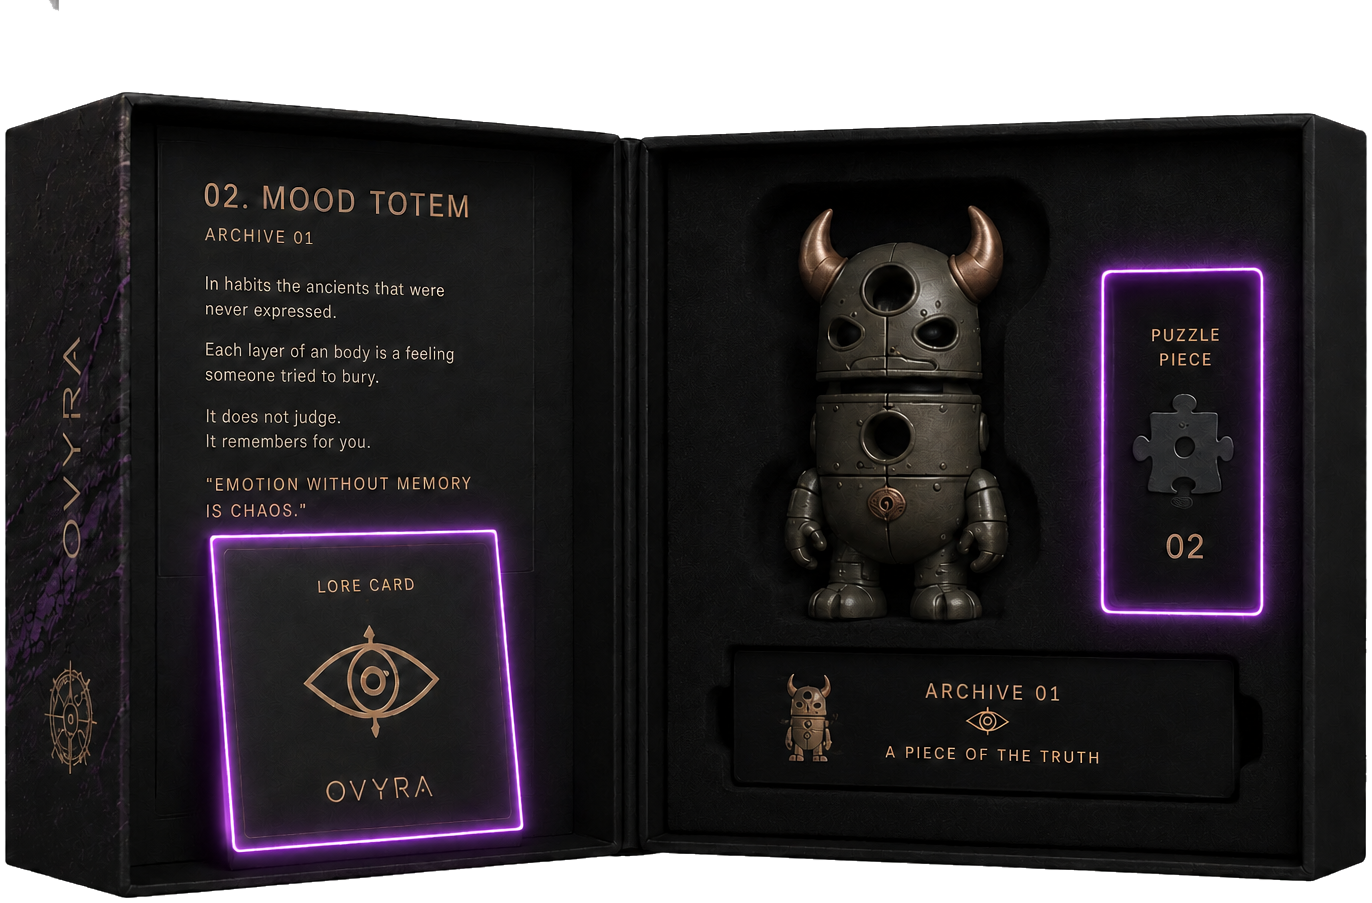
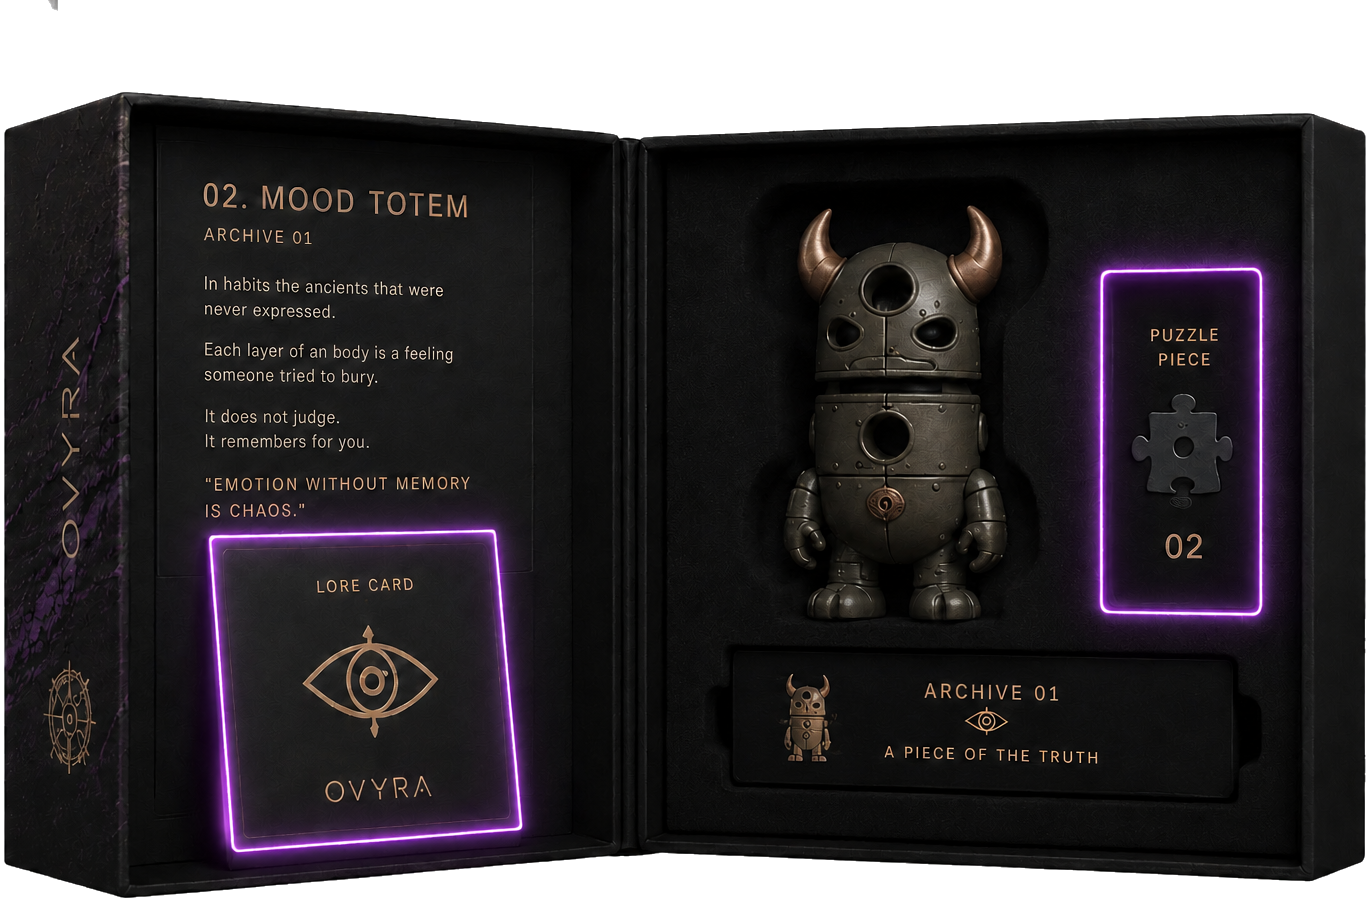
njbigsfdff

diff --git a/scripts/extract_system_assets.py b/scripts/extract_system_assets.py
@@ -16,7 +16,7 @@ OUT.mkdir(parents=True, exist_ok=True)
 REGIONS = {
     "lore-card": (0.18359375, 0.5087890625, 0.3984375, 0.83984375),
     "puzzle-piece": (0.763671875, 0.251953125, 0.880859375, 0.6103515625),
-    "figure-totem": (0.492, 0.288, 0.648, 0.568),
+    "figure-totem": (0.468, 0.285, 0.658, 0.572),
 }
 
 
@@ -89,10 +89,21 @@ def crop_fraction(img: Image.Image, box: tuple[float, float, float, float]) -> I
     return img.crop((int(x0 * w), int(y0 * h), int(x1 * w), int(y1 * h)))
 
 
+def cleanup_alpha(img: Image.Image) -> Image.Image:
+    arr = np.array(img.convert("RGBA"), dtype=np.uint8)
+    alpha = arr[:, :, 3]
+    lum = (arr[:, :, 0].astype(np.int16) + arr[:, :, 1].astype(np.int16) + arr[:, :, 2].astype(np.int16)) / 3
+
+    arr[alpha < 28, 3] = 0
+    arr[(alpha > 0) & (alpha < 48) & (lum >= 175), 3] = 0
+
+    return Image.fromarray(arr, "RGBA")
+
+
 def trim_alpha(img: Image.Image, pad: int = 2) -> Image.Image:
     arr = np.array(img)
     alpha = arr[:, :, 3]
-    ys, xs = np.where(alpha > 8)
+    ys, xs = np.where(alpha > 32)
     if len(xs) == 0:
         ys, xs = np.where(np.any(arr[:, :, :3] < 250, axis=2))
     if len(xs) == 0:
@@ -106,7 +117,8 @@ def main() -> None:
     src = Image.open(SRC)
     print(f"Source {SRC.name}: {src.size}")
 
-    clean_full = flood_remove_background(src, threshold=216)
+    clean_full = flood_remove_background(src, threshold=214)
+    clean_full = cleanup_alpha(clean_full)
 
     # Sub-assets: crop from original for pixel-perfect fidelity (inside box = opaque)
     for name, box in REGIONS.items():
